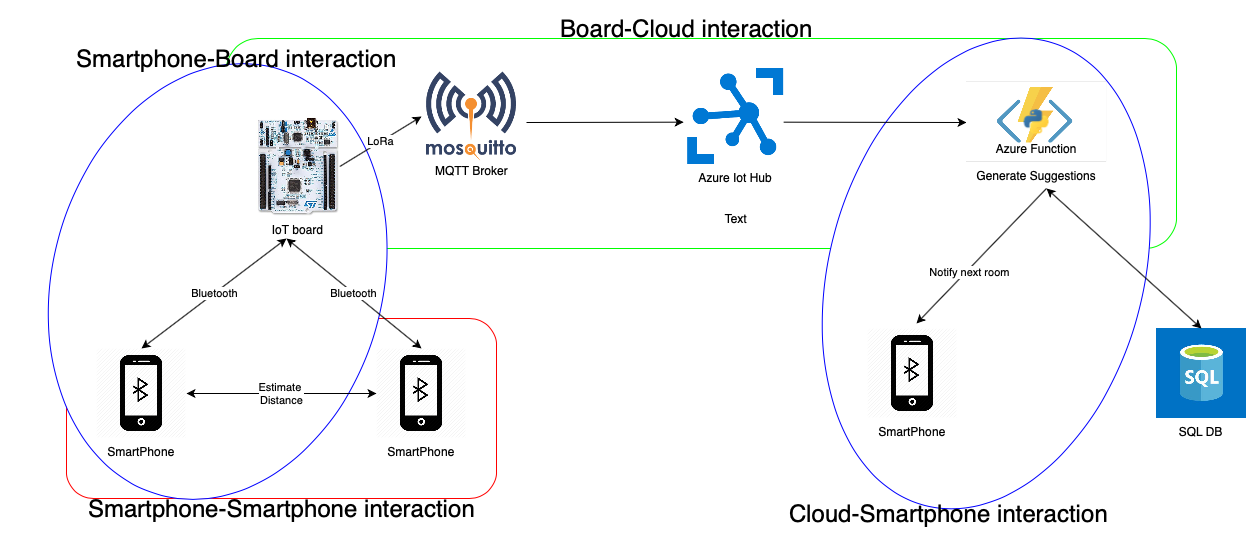
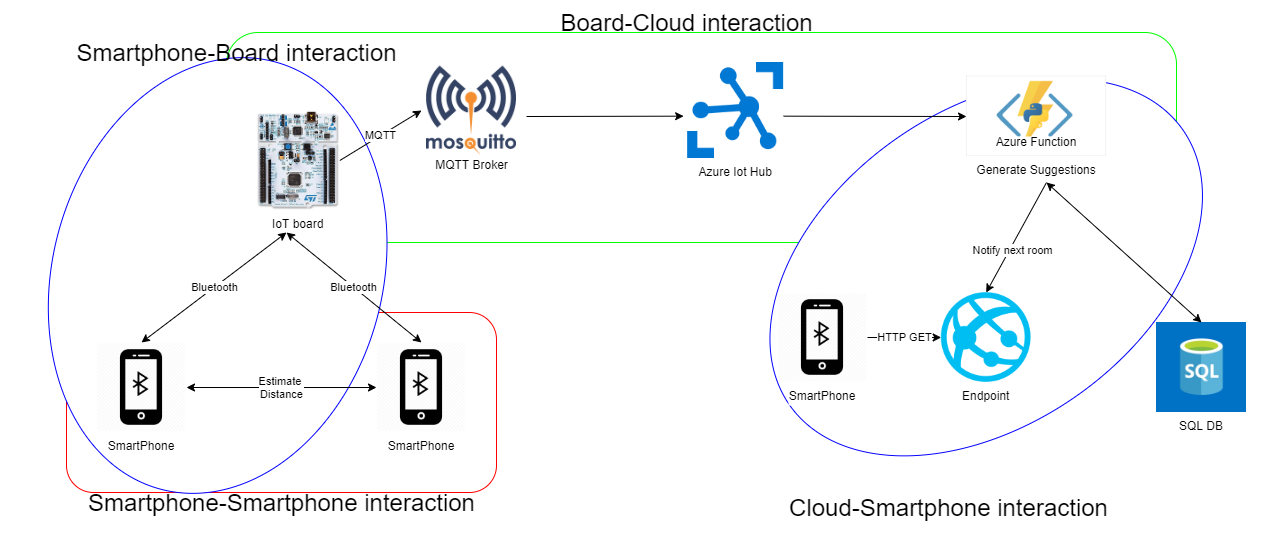
fix of documents + starts of the 3rd delivery document

diff --git a/Documents/3rd delivery.md b/Documents/3rd delivery.md
@@ -1,6 +1,56 @@
-that briefly explains
-- The comments that you received during the 2nd delivery and how you have addressed them (if you decided/managed to address them). You should justify your decisions.
 - Changes made to your design, architecture and evaluation plan since the 2nd delivery. You should justify the need for these changes.
 - Brief presentation of the technical work done since the 2nd delivery.
 - Brief presentation of the evaluation conducted since the 2nd delivery.
 - A brief list of the functionality that is still missing and which you aspect you did not manage to evaluate.
+
+# 3rd Delivery
+
+## Comments received during the 2nd presentation
+
+We have presented our idea to our IoT class and the main critiques were:
+
+1. An advice that professors gave us is to improve our solution for the covid-19 problem. So takint into account not only the number of people present in each section of the musem but also the respect of the distance between people. We decided to follow this advice and try this difficult challenge.
+
+2. We used Bluetooth beacons, but we want to underline the fact that our beacons are not passive, so we called them beacon in an unproper way. The iot boards are active components of our project infact they communicates with the smartphones and with the cloud infrastructure.
+
+## Our solution
+
+Taking into account these useful advices and critiques, we came out with the following solutions:
+
+1. We really appreciated the advice that professors gave us, in fact we decided to include some features to address the problem of guided visits in these times in which sections cannot be overcrowded.
+2. Our application uses Bluetooth beacons to monitor the tours that people makes in the museum.
+
+## Changes from the 2nd delivery
+
+The main changes from the first delivery are:
+
+1. We decided to discard the idea of using a website, we have develeped instead a mobile application.
+
+2. We faced the problem of social distancing because of the COVID-19 inside our mobile application and added that to our solution.
+
+3. Since we have the possibility to test on a physical board we have changed our plans to evaluate our system.
+
+## Technical work done so far
+
+Our work, from a technical point of view up to now is:
+
+1. We have implemented the cloud infrastructure to make the system work:
+
+    1.1. We implemented a Database with all the necessary tables to mantain useful data to be processed by our system.
+
+    1.2. We implemented a scoring algorithm that takes into account the similarity between recent visits and the current visit, and the number of people that is currently in each section.
+2. We have a starting version of the web application that gives suggestion about the next room to visit, taking into account the taste of the visitor and the crowding situation in each section.
+
+## Evaluation done so far
+
+1. We have evaluated our system sending messages through LoRa and The Things Network. We started an experiment on Fit IoT lab, sending LoRa messages to TTN and then bridge them to IoT Hub every 5 seconds, that is a frequency that we do expect to be necessary to our system in the worst case. Monitoring messages incoming on Azure IoT hub for 10 minutes, we observed that we had about 60% packet loss, that for our system is absolutely not affordable. So, due to this and to the possibiliyt to get real boards we changed this part of the architecture trying to use MQTT.
+
+## Evaluation to do
+
+As our initial idea has changed a bit, like our current situation with the pandemic, we have to rethink about how to do a better and more precise evaluation:
+
+1. We added some functionalities to the boards, so we have to test whether this is feasible. infact the boards in our plans have to communicate with each other to reach a consensus about the final list of devices in each section, moreover they have to send this list to the cloud, so, since we have only one avilable board, we plan to do a load test with an ad hoc MBED OS program that performs a simulation of 20 BLE devices in a single section. If the board can handle this load, looking a the space available in each section we can be happy about that. Otherwise the computation will be done using the computational power of the cloud.
+
+2. We have to test whether our cloud architecture is efficient enough for our purposes, our target remains to manage 20 devices per room. So we will perform a simulation, through a Python script, sending data to the cloud and analyzing the behaviour of our algorithm, taking into account that saving data to the DB, from what we have experienced so far, is an important bottleneck
+
+3. Evaluation of MQTT (we have to repeat a similar experiment using MQTT)

diff --git a/Documents/Evaluation/Evaluation.md b/Documents/Evaluation/Evaluation.md
@@ -17,19 +17,24 @@ User experience:
 ### How we will evaluate user experience
 
 For this project we decided to gather data, in an anonimous way, from user application on how much time they spend in each section and how much time they visited all parts in the museum.
+
 We thought that in a real scenario we could use these data, and create a score based on how much time a user spends in the suggested section of the museum. But due to the current situation, and to our difficulty on testing the application in a real scenario, this evaluation becomes complex.
+
+
 So we evaluated the user experience using mockups, and after every demo of these prototypes we will collect people's opinions asking for feedbacks, trying to improve UX and to make our application more and more interactive. The main feedback that emerged from this kind of evaluation is that it could be cool if the application presents a map of the museum with the spot in which the user is, and the room he or she is suggested to visit. This is part of our future works.
 
 ## Technical point of view
 
-The evaluation of the technical part is fundamental for the evaluation of the entire system, because its main goal is to understand the behaviour of the system under real use cases. From these data it is possible to understand if the project is feasible in a real-world scenario. In our case this evaluation has been carried on to understand if it is possible for the system to handle a sufficent number of users present at the same time in the Sapienza "Museo dell'Arte Classica".
+The evaluation of the technical part is fundamental for the evaluation of the entire system, because its main goal is to understand the behaviour of the system under real use cases.
 
-### How we will evaluate the technical part
+From these data it is possible to understand if the project is feasible in a real-world scenario. In our case this evaluation has been carried on to understand if it is possible for the system to handle a sufficent number of users present at the same time in the Sapienza "Museo dell'Arte Classica".
+
+### How we evaluated the technical part
 
 To evaluate the system from a technical point of view the main thing that we could do was to do tests on the maximum load that it can handle. This operation, to better understand the performances of the single parts of the system, can be carried on each of them. So we did some load tests on:
 
 * **Smartphone distances** Smartphone-Smartphone interaction
-    * With this test we experimented the accuracy of the estimated distance by our application from other people, taking different estimations with distances that were known, to calculate the average error of this estimation
+  * With this test we experimented the accuracy of the estimated distance by our application from other people, taking different estimations with distances that were known, to calculate the average error of this estimation.
 
 * **BLE** IoT device-Smartphone interation: how many smartphones a single device can handle?
   * In this part we performed a load test, trying to understand the limitations of the BLE sensor of the board when multiple devices are detected, and the capability of the board of storing data that begins to grow in size. We had not available multiple devices to connect to the board, but we thought to conduct a simulation using the same device to connect to the board within a short period of time before it sends the list of devices to the cloud and empties the list.
@@ -37,7 +42,6 @@ To evaluate the system from a technical point of view the main thing that we cou
 * **Cloud** IoT device-Cloud interation: what is the message rate with which the device can send messages to Azure IoT hub?
 We tested whether our cloud architecture is efficient enough for our purposes, our target remains to manage 20 devices per room. So we will performed a simulation, through a Python script, sending data to the cloud and analyzing the behaviour of our algorithm, taking into account that saving data to the DB, from what we have experienced, is an important bottleneck.
 * **Responsiveness** Cloud-Smartphone interaction: how fast the smartphone receives the advice on where to go, does it depend from the number of connected devices?
-
 
 ### Pricing evaluation
 

diff --git a/Documents/Architecture/Architecture.md b/Documents/Architecture/Architecture.md
@@ -6,21 +6,22 @@
 
 ### BLE
 
-We will use BLE technology. In this way an IoT device will recognize the smartphones in one section that will send a BLE message to the nearest board to state that they are nearby.
-We used
-[Mbed OS BLE](https://os.mbed.com/teams/Bluetooth-Low-Energy/)
-[Flutter Blue](https://pub.dev/packages/flutter_blue)
+We will use BLE technology. In this way an IoT device will recognize the smartphones in one section; the smartphones recognized then will send a BLE message to the nearest board to state that they are nearby.
+We used:
+
+* [Mbed OS BLE](https://os.mbed.com/teams/Bluetooth-Low-Energy/)
+
+* [Flutter Blue](https://pub.dev/packages/flutter_blue)
 
 ### MQTT
 
-Our initial idea was to use LoRa and TTN to communicate between the boards present in each section, and Azure IoT Hub, but after a load test we councluded that this was not suitable for our solution. So we changed our mind and decided to use MQTT for this purpose.
-[The MQTT Standard](https://it.wikipedia.org/wiki/MQTT)
+Our initial idea was to use LoRa and TTN to communicate between the boards present in each section, and Azure IoT Hub, but after a load test we councluded that this was not suitable for our solution. So we changed our mind and decided to use [the MQTT Standard](https://it.wikipedia.org/wiki/MQTT) for this purpose.
 
-## Cloud infrastructure
-
-### MQTT broker
+## MQTT broker
 
 To use the MQTT protocol it is essential to use an MQTT broker. To perform our imulation this MQTT broker will be run on our laptop using [Mosquitto](www.mosquitto.org) but in the museum this task will be implemented by a dedicated board, or by another computer that has to always listen to MQTT messages to allow the system to work correctly.
+
+## Cloud infrastructure
 
 ### Azure IoT Hub
 
@@ -31,15 +32,25 @@ We are using the Azure IoT Hub service as a central message hub to communicate b
 Basically there will be an Azure function that will perform three tasks:
 
 1. Redirect the incoming data flow from the Azure IoT Hub to an SQL DB in order to easily retrieve the history of past visits. This is fundamental for our algorithm to work.
-2. Redirect the incoming data flow from the Azure IoT Hub to the curators' dashboard through an HTTP POST message
+2. Redirect the incoming data flow from Azure IoT Hub to a HTTP endpoint accessible from the smartphone to retrieve the suggestions.
 3. Implement an algorithm that generates a sorted list of suggestions basing its choice on the sum of two scores: a similarity score between the current visit and the others present in the database,  and a score computed on how many people are currently in the section (this will increment as the number of people becomes smaller). The algorithm sorts the list of section in in a decreasing order, using the computed score as a key, and send the list of suggestions to the web application through a HTTP POST message.
 
 ### Smartphone application
 
 We will use an application, written in Flutter, to handle the start of the visit at the museum and the relative information to enter in the first phase.
+
 The application will receive info on the next interesting sections to see during the visit based on the time spent in the previous sections, and based on how many people are currently in that section.
-The application will also estimate distance between the user smartphones and the other ones, using bluetooth RSSI and processing it with this formula:
-Estimated_Distance = 10^((-47-RSSI)/(10*3))
+
+The application will also estimate distance between the user smartphones and the other ones, using bluetooth RSSI.
+We are using these data to calculate an estimated distance:
+
+* Measured Power (also known as the 1 Meter RSSI)
+* RSSI
+* N (Constant depends on the Environmental factor. Range 2-4)
+
+![formula](https://iotandelectronics.files.wordpress.com/2016/10/rssi-to-distance.jpg?w=696)
+
+We have used -47 as the Measured Power at 1 meter distance after some tests, and chosen 3 as environmental factor.
 
 
 The old version of this document can be found [here](OlderVersions/Architecture02)

diff --git a/Documents/Design/Design.md b/Documents/Design/Design.md
@@ -1,8 +1,14 @@
 # Design document
+
 ## Our idea
 
-In these days we are facing the problem of reopening activities after the lockdown. Our idea is to build a web application for a smartmuseum that runs on your smartphone. It will help to control the flow of people incoming in the museum without imposing some strict restrictions on the number of people that can visit the museum at once. During a tour in the Sapienza "Museo dell'Arte Classica", it can suggest the next section you could visit based on the time you have spent in the previous sections and on the number of people that is currently in each section.  A user could run the smartphone application "NextRoom" during the whole duration of the museum tour, so that the boards that are placed in each room/section of the museum start collecting data, in an anonymous way, to make the best suggestion for every user. The suggestion will be sent every time a user is leaving a section.
+In these days we are facing the problem of reopening activities after the lockdown.
 
+Our idea is to build an application for a smart-museum that runs on your smartphone. It will help to control the flow of people incoming in the museum without imposing some strict restrictions on the number of people that can visit the museum at once.
+
+During a tour in the Sapienza "Museo dell'Arte Classica", it can suggest the next section you could visit based on the time you have spent in the previous sections and on the number of people that is currently in each section.
+
+A user could run the smartphone application "NextRoom" during the whole duration of the museum tour, so that the boards that are placed in each room/section of the museum start collecting data, in an anonymous way, to make the best suggestion for every user. The suggestion will be sent every time a user is leaving a section.
 
 ## User Personas
 
